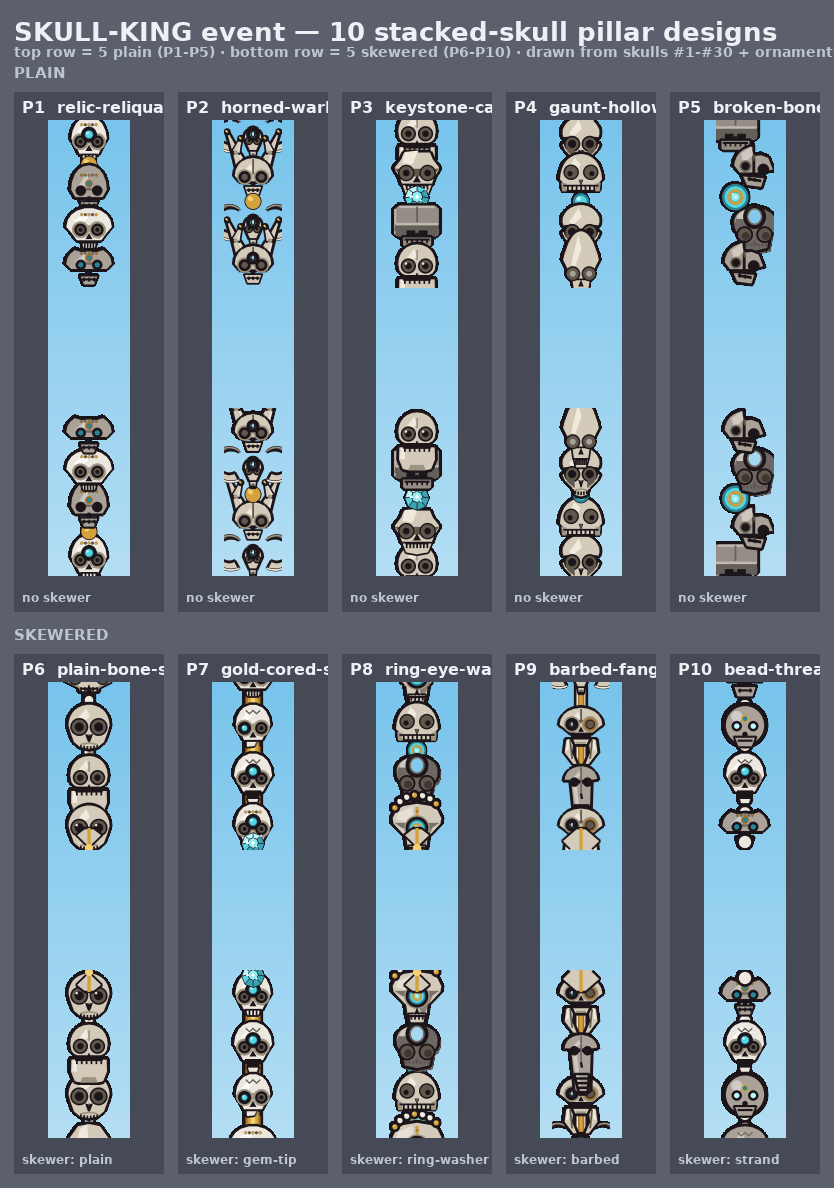
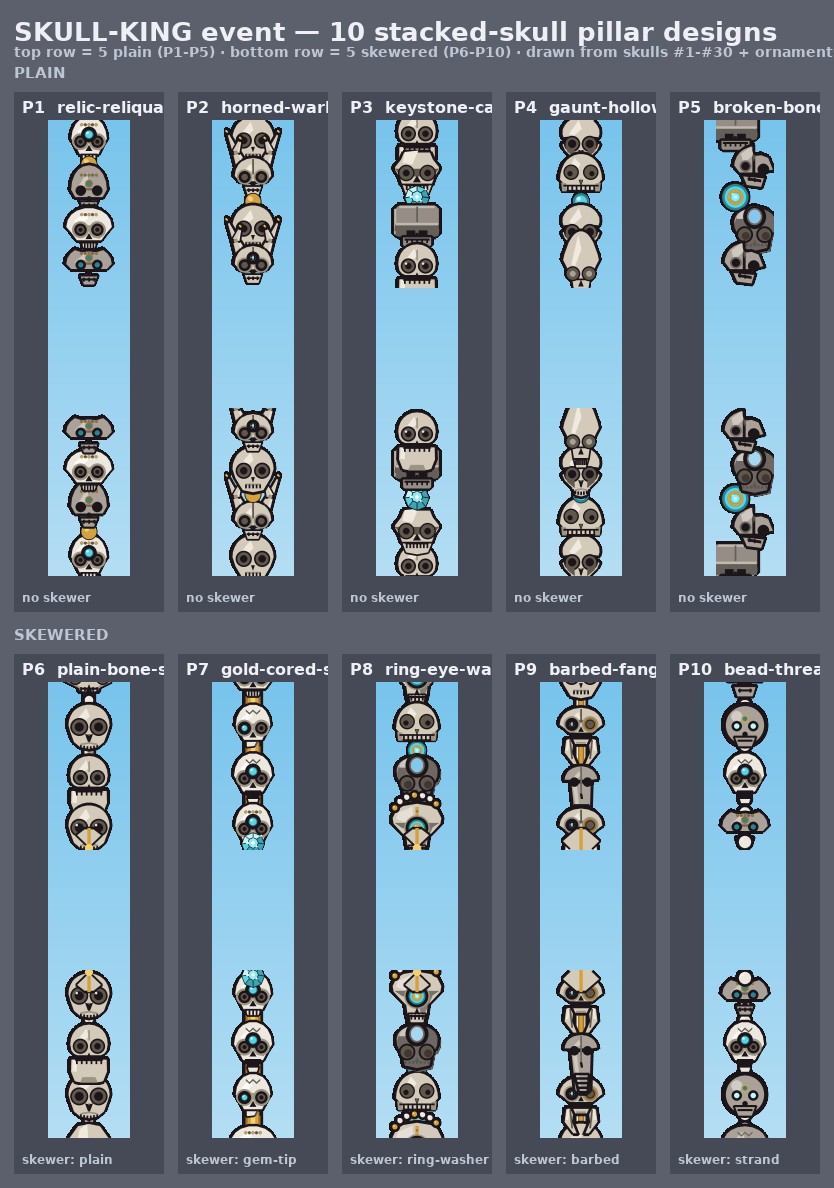
skulls: replace #15 (horned-ram) with a new very simple skull
The ram skull at #15 read poorly, so swap in a new plain simple-skull
(smooth cranium, two even sockets, triangle nose, one clean tooth row)
at that roster slot and in the two pillars that used it (P2
horned-warband, P9 barbed-fang-harpoon). Re-rendered skulls_individual
and the pillars showcase.

Claude-Session: https://claude.ai/code/session_01JdHJ2TbdY51oSPSCYSsaHZ

diff --git a/docs/skull_king_stack/new8/simple-skull/render_simple_skull.py b/docs/skull_king_stack/new8/simple-skull/render_simple_skull.py
@@ -1,0 +1,102 @@
+import os, sys, math
+os.environ.setdefault("SDL_VIDEODRIVER", "dummy"); os.environ.setdefault("SDL_AUDIODRIVER", "dummy")
+ROOT = "/home/user/skybit"
+sys.path.insert(0, os.path.join(ROOT, "docs/skybit_devil/batch2/asthi_ringeye"))
+import pygame; pygame.init()
+import render_switchbig as sk
+
+
+def draw(surf, cx, cy, r, s, lit=False):
+    """SIMPLE-SKULL — the plainest, calmest skull in the set: a smooth rounded
+    cranium over a short face, two even round sockets, a small triangular nose and
+    one clean tooth row. No horns, jewels, cracks or ornament — deliberately the
+    quiet, instantly-readable skull that replaces the busy ram at slot #15. Plain
+    BONE tier: flat fill + INK keyline + a single soft top-left sheen wedge; the
+    sockets/nose are dark ink holes. `lit` is a near-no-op (this tier carries no
+    colour accent), only faintly warming the socket rims."""
+    ow_thick = max(1, int(1.6 * s))
+    ow_thin = max(1, int(1.0 * s))
+
+    # === CRANIUM — one smooth rounded mass: a gently tall dome flowing through soft
+    # cheeks to a rounded chin (no separate jaw), so the whole silhouette is calm.
+    cw, ch = r * 1.00, r * 1.04
+    dome = []
+    for ang in range(-180, 1, 12):
+        a = math.radians(ang)
+        dome.append((cx + math.cos(a) * cw, cy + math.sin(a) * ch))
+    dome.append((cx + cw * 0.86, cy + ch * 0.40))
+    dome.append((cx + cw * 0.50, cy + ch * 0.98))
+    dome.append((cx,             cy + ch * 1.08))
+    dome.append((cx - cw * 0.50, cy + ch * 0.98))
+    dome.append((cx - cw * 0.86, cy + ch * 0.40))
+    sk.triad_blob(surf, sk.BONE, [(int(x), int(y)) for x, y in dome], ow=ow_thick)
+
+    # single soft top-left sheen wedge over the forehead (the only depth cue needed)
+    sheen = [(cx - cw * 0.58, cy - ch * 0.16), (cx - cw * 0.10, cy - ch * 0.74),
+             (cx + cw * 0.02, cy - ch * 0.38), (cx - cw * 0.42, cy + ch * 0.00)]
+    pygame.draw.polygon(surf, sk.BONE_SH, [(int(x), int(y)) for x, y in sheen])
+
+    # === TWO ROUND SOCKETS — even, friendly, set just below the dome midline so a
+    # calm forehead reads above. Ink pit + darker core ring + deep ink centre.
+    sock_r = int(r * 0.30)
+    eye_y = int(cy + ch * 0.08)
+    for sgn in (-1, 1):
+        ex = int(cx + sgn * cw * 0.42)
+        pygame.draw.circle(surf, sk.INK, (ex, eye_y), sock_r + max(1, int(0.9 * s)))
+        pygame.draw.circle(surf, sk.BONE_DD, (ex, eye_y), sock_r)
+        pygame.draw.circle(surf, sk.INK, (ex, eye_y), int(sock_r * 0.58))
+        if lit:
+            pygame.draw.circle(surf, sk.BONE_SH,
+                               (ex - int(sock_r * 0.32), eye_y - int(sock_r * 0.34)),
+                               max(1, int(sock_r * 0.18)), max(1, ow_thin))
+
+    # === NASAL APERTURE — one small inverted triangle between + below the sockets ==
+    n_top = cy + ch * 0.36
+    nh, nw = r * 0.24, r * 0.16
+    pygame.draw.polygon(surf, sk.INK, [(int(cx - nw * 0.5), int(n_top)),
+                                       (int(cx + nw * 0.5), int(n_top)),
+                                       (int(cx), int(n_top + nh))])
+
+    # === TOOTH ROW — a few even INK slits in a softly arched pale bar; the simplest
+    # possible bite, no chips or gaps.
+    n_teeth = 5
+    bar_w = r * 0.64
+    bar_y = cy + ch * 0.74
+    x0 = cx - bar_w / 2.0
+    pygame.draw.line(surf, sk.BONE_D, (int(x0 - r * 0.02), int(bar_y - r * 0.07)),
+                     (int(x0 + bar_w + r * 0.02), int(bar_y - r * 0.07)), max(1, ow_thin))
+    for j in range(n_teeth):
+        tx = int(x0 + bar_w * j / (n_teeth - 1))
+        pygame.draw.line(surf, sk.INK, (tx, int(bar_y - r * 0.06)),
+                         (tx, int(bar_y + r * 0.11)), max(1, ow_thin))
+
+
+def _panel():
+    """A quick review panel: true 24px chip + x4 zoom + blackout + ~300px hero."""
+    panel = pygame.Surface((520, 360)); panel.fill(sk.PANEL)
+    panel.blit(sk.font(20).render("SIMPLE-SKULL  -  replacement for #15", True, sk.LABEL), (16, 12))
+    cw, ch, ssr = 116, 132, 6
+    big = pygame.Surface((cw * ssr, ch * ssr), pygame.SRCALPHA)
+    r = int(min(cw, ch) * 0.30) * ssr
+    sline = (int(min(cw, ch) * 0.30) / 12.0) * ssr
+    draw(big, cw * ssr // 2, int(ch * ssr * 0.46), r, sline)
+    chip = sk.grow_outline(pygame.transform.smoothscale(big, (cw, ch)), sk.INK + (255,), 1)
+    chip24 = pygame.transform.smoothscale(chip, (24, int(24 * ch / cw)))
+    panel.blit(sk.font(13).render("chip 24px", True, sk.LABEL_DIM), (24, 50))
+    panel.blit(chip24, (24, 68))
+    panel.blit(pygame.transform.scale(chip24, (24 * 4, int(24 * ch / cw) * 4)), (90, 68))
+    mask = pygame.mask.from_surface(chip24)
+    sil = mask.to_surface(setcolor=sk.INK, unsetcolor=(0, 0, 0, 0))
+    panel.blit(sk.font(13).render("blackout", True, sk.LABEL_DIM), (210, 50))
+    panel.blit(pygame.transform.scale(sil, (24 * 4, int(24 * ch / cw) * 4)), (210, 68))
+    hero = pygame.Surface((300, 300), pygame.SRCALPHA)
+    draw(hero, 150, 140, 76, 76 / 12.0)
+    hero = sk.grow_outline(hero, sk.INK + (255,), 2)
+    panel.blit(hero, (290, 60))
+    out = os.path.join(os.path.dirname(os.path.abspath(__file__)), "round_1.png")
+    pygame.image.save(panel, out)
+    return out
+
+
+if __name__ == "__main__":
+    print("WROTE", _panel())

diff --git a/docs/skull_king_stack/pillars/horned-warband/render_horned_warband.py b/docs/skull_king_stack/pillars/horned-warband/render_horned_warband.py
@@ -3,21 +3,19 @@ sys.path.insert(0, "/home/user/skybit/docs/skull_king_stack/pillars")
 import pygame
 import pillar_engine as PE
 
-# WHY this pillar reads as a WARBAND TOTEM and not the fang-DOWN harpoon: every
-# skull throws bone OUTWARD off the column — antler-stag spikes UP, horned-ram
-# curls wide OUT — so the silhouette is the most ragged, irregular blackout of the
-# set. Alternating the two appendage families up the stack keeps the column jagged
-# (tall spurs, then a wide span, repeat) instead of one repeated horn shape.
-# The gold beads sit as a single HORIZONTAL SPACER TIER (one bead element seated
-# between two skulls), a clean breath in the rack — never a vertical centre line,
-# which would read as a spine and fight the "appendages own the silhouette" thesis.
+# WHY this pillar still reads as a WARBAND TOTEM: the antler-stag racks throw bone
+# OUTWARD and UP off the column, so the silhouette stays ragged and irregular. The
+# plain simple-skulls between the racks are calm breaks that let each antler spread
+# read on its own (tall spurs, then a clean skull, repeat) instead of a solid horn
+# mass. The gold bead sits as a single HORIZONTAL SPACER TIER (one bead element
+# between two skulls), a clean breath in the rack — never a vertical centre line.
 TITLE = "P2 horned-warband"
 RECIPE = [
     "new:antler-stag",   # focal at the gap — tall branched rack announces the warband
-    "new:horned-ram",    # wide C-curls break the column outward right above it
+    "new:simple-skull",  # a calm plain skull between the racks
     "orn:bead_gold",     # lone horizontal spacer pip — a breath between the racks
     "new:antler-stag",   # rack again, far tine spread re-broadens the top
-    "new:horned-ram",    # crowning curls cap the totem wider-than-tall
+    "new:simple-skull",  # plain skull caps the totem under the top rack
 ]
 WITH_SKEWER = False
 SKEWER_STYLE = "plain"

diff --git a/docs/skull_king_stack/pillars/barbed-fang-harpoon/render_barbed_fang_harpoon.py b/docs/skull_king_stack/pillars/barbed-fang-harpoon/render_barbed_fang_harpoon.py
@@ -16,13 +16,13 @@ TITLE = "P9 barbed-fang-harpoon"
 # OUTWARD/UP (antlers up, ram curls wide) for a ragged horizontal silhouette. Here
 # the read is VERTICAL and front-heavy — longjaw-relic's long muzzle wedge rhymes
 # the maw's downward thrust, so the whole column drives the eye DOWN the spear.
-# horned-ram is demoted to a SUPPORT tier: a single C-curl breath partway up that
-# breaks the taper without ever owning the silhouette — horns as accent, not lead.
+# a plain simple-skull sits as the SUPPORT tier partway up: a calm round break that
+# interrupts the taper without ever owning the silhouette — a rest, not a lead.
 #
 # Rhythm A-B-A-C-B: maw(A, the plunge) -> longjaw(B, down-rhyme) -> maw(A, the
-# plunge recurs as the spit's repeating motif) -> horned-ram(C, lone wide breath)
+# plunge recurs as the spit's repeating motif) -> simple-skull(C, calm round break)
 # -> longjaw(B, far cap whose muzzle still points back down the column). The two
-# down-plungers (A,B) dominate; the ram is the only sideways note.
+# down-plungers (A,B) dominate; the plain skull is the only quiet note.
 #
 # COLLAR=False: the barbed bone rod with its seam nubs is the sole joinery — bead
 # collars would soften the brutal harpoon read and add horizontal pips that fight
@@ -32,7 +32,7 @@ RECIPE = [
     "new:sabertooth-maw",   # focal at the gap — fangs + the barbed tip plunge as one spear
     "new:longjaw-relic",    # long muzzle wedge rhymes the downward thrust right above it
     "new:sabertooth-maw",   # the plunging maw recurs as the harpoon's repeating motif
-    "new:horned-ram",       # lone support tier — one wide C-curl breath breaks the taper
+    "new:simple-skull",     # lone support tier — a calm round break in the taper
     "new:longjaw-relic",    # far cap: muzzle points back down the column, sealing the lunge
 ]
 WITH_SKEWER = True

diff --git a/tools/render_skull_king_stack.py b/tools/render_skull_king_stack.py
@@ -521,7 +521,7 @@ import importlib.util as _ilu
 
 _NEW8_DIR = os.path.join(ROOT, "docs/skull_king_stack/new8")
 _NEW8_SPEC = [
-    ("horned-ram",     "render_horned_ram.py",     0.26, 0.50, True),
+    ("simple-skull",   "render_simple_skull.py",   0.30, 0.46, False),
     ("antler-stag",    "render_antler_stag.py",     0.33, 0.66, True),
     ("sabertooth-maw", "render_sabertooth_maw.py",  0.34, 0.34, True),
     ("cyclops-brow",   "render_cyclops_brow.py",    0.40, 0.52, True),
